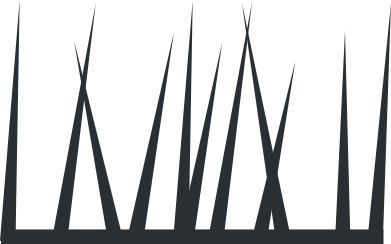
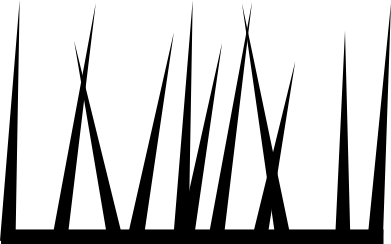
lvl2-5 backgrounds, adjusted colors on some game object assets, LevelData added custom fog and color for each lvl

Changed region(s): [[0.0, 0.0574, 1.0, 1.0], [0.7366, 0.3156, 0.7673, 0.4016]]

diff --git a/src/states/Main.js b/src/states/Main.js
@@ -52,25 +52,6 @@ class Main extends Phaser.State {
         //collision with world bounds
         this.game.physics.p2.updateBoundsCollisionGroup();
 
-        //create game world bitmap and color it
-        let bgBitMap = this.game.add.bitmapData(this.game.width, this.game.height);
-        bgBitMap.ctx.rect(0, 0, this.game.width, this.game.height);
-        bgBitMap.ctx.fillStyle = '#354a55';
-        bgBitMap.ctx.fill();
-        this.backgroundSprite = this.game.add.sprite(0, 0, bgBitMap);
-
-        //create sun and moon 
-        this.sunSprite = this.game.add.sprite(50, -250, 'sun');
-        this.moonSprite = this.game.add.sprite(this.game.width - (this.game.width / 4), this.game.height + 500, 'moon');
-
-        //create game backgrounds
-        this.backgroundMid = this.game.add.tileSprite(0, 
-            this.game.height - this.game.cache.getImage('background-mid').height, 
-            this.game.width, 
-            this.game.cache.getImage('background-mid').height, 
-            'background-mid'
-        );
-
         //fetch lvl data
         this.lvlData = new LevelData(this.game);
         this.game.lvlObjects = this.lvlData.fetch({
@@ -81,6 +62,25 @@ class Main extends Phaser.State {
             worldCollision: this.worldCollision,
             puzzleCollision: this.puzzleCollision
         });
+
+        //create game world bitmap and color it
+        let bgBitMap = this.game.add.bitmapData(this.game.width, this.game.height);
+        bgBitMap.ctx.rect(0, 0, this.game.width, this.game.height);
+        bgBitMap.ctx.fillStyle = this.game.lvlFillColor;
+        bgBitMap.ctx.fill();
+        this.backgroundSprite = this.game.add.sprite(0, 0, bgBitMap);
+
+        //create sun and moon 
+        this.sunSprite = this.game.add.sprite(50, -250, 'sun');
+        this.moonSprite = this.game.add.sprite(this.game.width - (this.game.width / 4), this.game.height + 500, 'moon');
+
+        //create game backgrounds
+        this.backgroundMid = this.game.add.tileSprite(0, 
+            this.game.height - this.game.cache.getImage('background-mid-lvl'+this.game.lvlId).height, 
+            this.game.width, 
+            this.game.cache.getImage('background-mid-lvl'+this.game.lvlId).height, 
+            'background-mid-lvl'+this.game.lvlId
+        );
 
         //create player
         //this.player = new Dummy(this.game, 150, this.game.height-95);
@@ -128,8 +128,10 @@ class Main extends Phaser.State {
         //weather effects
         this.weather = new Weather(this.game)
         this.weather.addRain();
-        this.weather.addFog();
-
+        if(this.game.fog) {
+            this.weather.addFog();
+        }
+        
         //background sounds
         this.game.sounds.backgroundRain = this.game.add.audio('background-rain', 1, true);
         this.game.sounds.backgroundWind = this.game.add.audio('background-wind', 0.2, true);

diff --git a/src/includes/LevelData.js b/src/includes/LevelData.js
@@ -54,6 +54,8 @@ class LevelData {
 	}
 
 	lvl1Data(collisionGroups) {
+        this.game.fog = true;
+        this.game.lvlFillColor = '#354a55';
 		this.game.lvlIntroText = "... Beware of the Shadows swallowed by fog ...";
 
         let lvlObjects = [
@@ -139,6 +141,8 @@ class LevelData {
 	}
 
 	lvl2Data(collisionGroups) {
+        this.game.fog = true;
+        this.game.lvlFillColor = '#355455';
 		this.game.lvlIntroText = "... Level 2 ...";
 
 		let lvlObjects = [//42000
@@ -233,6 +237,8 @@ class LevelData {
 	}
 
 	lvl3Data(collisionGroups) {
+        this.game.fog = true;
+        this.game.lvlFillColor = '#0c85ca';
 		this.game.lvlIntroText = "... Level 3 ...";
 
 		let lvlObjects = [//78000
@@ -293,6 +299,8 @@ class LevelData {
 	}
 
 	lvl4Data(collisionGroups) {
+        this.game.fog = true;
+        this.game.lvlFillColor = '#366077';
 		this.game.lvlIntroText = "... Level 4 ...";
 
 		let lvlObjects = [
@@ -307,6 +315,8 @@ class LevelData {
 	}
 
 	lvl5Data(collisionGroups) {
+        this.game.fog = true;
+        this.game.lvlFillColor = '#6a95ad';
 		this.game.lvlIntroText = "... Level 5 ...";
 
 		let lvlObjects = [

diff --git a/src/states/Preload.js b/src/states/Preload.js
@@ -49,9 +49,13 @@ class Preload extends Phaser.State {
 		this.game.load.spritesheet('hair-moving', 'assets/hair-moving.png', 218, 177);
 		this.game.load.spritesheet('hair-falling', 'assets/hair-falling.png', 101, 135);
 
-		//for beta lvl should be loaded based on current lvl
-    	this.game.load.image('background-mid', 'assets/lvl1/background-mid.png');
-    	this.game.load.image('background-bottom', 'assets/lvl1/background-bottom.png');
+		//backgrounds
+    	this.game.load.image('background-mid-lvl1', 'assets/backgrounds/background-mid-lvl1.png');
+    	this.game.load.image('background-mid-lvl2', 'assets/backgrounds/background-mid-lvl2.png');
+    	this.game.load.image('background-mid-lvl3', 'assets/backgrounds/background-mid-lvl3.png');
+    	this.game.load.image('background-mid-lvl4', 'assets/backgrounds/background-mid-lvl4.png');
+    	this.game.load.image('background-mid-lvl5', 'assets/backgrounds/background-mid-lvl5.png');
+    	this.game.load.image('background-bottom', 'assets/backgrounds/background-bottom.png');
 
     	//game objects
     	this.game.load.spritesheet('rock', 'assets/objects/rock.png', 456, 469);

diff --git a/src/objects/Bitmap.js b/src/objects/Bitmap.js
@@ -23,7 +23,7 @@ class Bitmap extends Sprite {
 
 		//	Fill it
 		sprite.ctx.rect(0, 0, this.width, this.height);
-	    sprite.ctx.fillStyle = '#2a2f33';
+	    sprite.ctx.fillStyle = '#111111';
 	    sprite.ctx.fill();
 
 		this.sprite = this.game.add.sprite(this.x, this.y, sprite);
